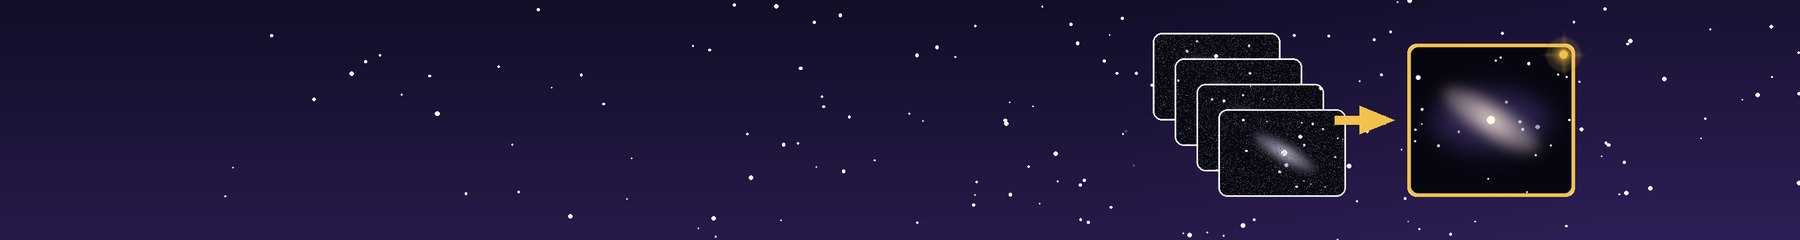
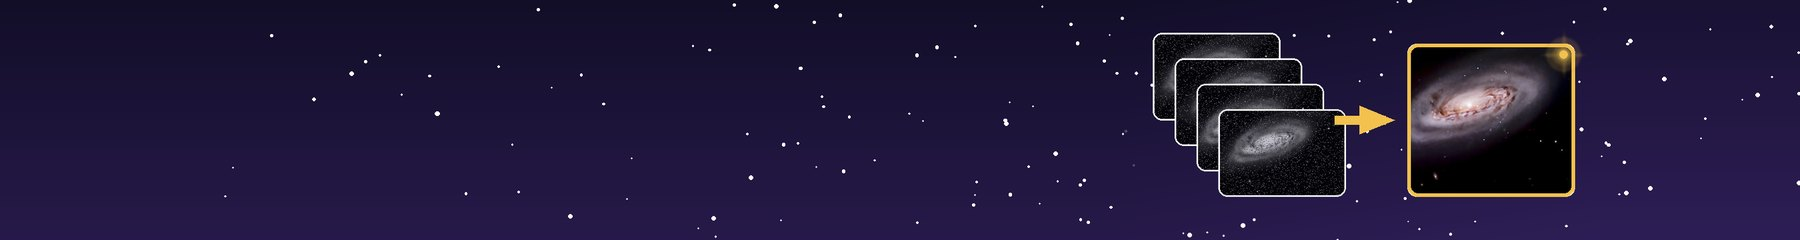
Dibujos de la aplicación con galaxias y nebulosas reales
Las galaxias, nebulosas y campos de estrellas de la cabecera y de los dibujos
de cada apartado ya no están dibujados: son recortes de astrofotos de Tomás
Moreno González (M 90, NGC 7000, NGC 2264, un cúmulo de Abell y el Tiburón),
que quedan en herramientas/fotos/ para volver a fabricar los dibujos. Las
tomas de una cámara monocroma salen en gris; el apilado, en color.

Claude-Session: https://claude.ai/code/session_01GSWUwFT7dmuTgvCXzgkGxE

diff --git a/herramientas/dibujos_lanzador.py b/herramientas/dibujos_lanzador.py
@@ -1,13 +1,17 @@
 """Dibujos de la ventana de inicio de ASTRO (lanzador).
 
 Genera en ../imagenes/ la cabecera y una ilustración por cada apartado. Se dibujan a 3× y se reducen,
+para que salgan suaves. Las galaxias, nebulosas y campos de estrellas no se dibujan: son recortes de
+astrofotos reales de Tomás Moreno González (M 90, NGC 7000, NGC 2264, un cúmulo de Abell y el Tiburón),
+que están en herramientas/fotos/. Lo demás (tarjetas, telescopios, flechas, la Luna) sí es dibujo.
+Se dibujan a 3× y se reducen,
 para que salgan suaves. En ../imagenes/web/ deja las versiones para la aplicación web (a 2×, en JPG): la
 cabecera, cada dibujo suelto y una banda ancha por apartado para la cabecera de sus ventanas. Hace falta Pillow solo para fabricarlos (la aplicación usa los PNG ya hechos):
 
     python3 herramientas/dibujos_lanzador.py
 """
 import math, os, random
-from PIL import Image, ImageDraw, ImageFilter
+from PIL import Image, ImageChops, ImageDraw, ImageEnhance, ImageFilter, ImageOps
 
 S = 3                                   # sobremuestreo
 AQUI = os.path.dirname(os.path.abspath(__file__))
@@ -72,14 +76,45 @@ def mancha(im, caja, color, desenfoque, alfa=255):
     im.alpha_composite(capa.filter(ImageFilter.GaussianBlur(desenfoque)))
 
 
-def galaxia(im, cx, cy, rx, ry, angulo=-25, color=(235, 225, 255)):
-    capa = Image.new("RGBA", im.size, (0, 0, 0, 0))
-    d = ImageDraw.Draw(capa)
-    for k, a in ((1.0, 70), (0.7, 110), (0.42, 170), (0.2, 240)):
-        d.ellipse([cx - rx * k, cy - ry * k, cx + rx * k, cy + ry * k], fill=color + (a,))
-    capa = capa.rotate(angulo, center=(cx, cy), resample=Image.BICUBIC).filter(ImageFilter.GaussianBlur(rx * 0.12))
-    im.alpha_composite(capa)
-    ImageDraw.Draw(im).ellipse([cx - rx * 0.07, cy - rx * 0.07, cx + rx * 0.07, cy + rx * 0.07], fill=(255, 250, 235, 255))
+FOTOS = os.path.join(AQUI, "fotos")      # recortes de astrofotos reales de Tomás Moreno González
+FOTO_OBJETO = {"galaxia": "galaxia-m90.jpg", "nebulosa": "nebulosa-ngc7000.jpg", "cumulo": "cumulo-abell.jpg",
+               "ninguno": "campo-tiburon.jpg"}
+_FOTOS = {}
+
+
+def foto(nombre):
+    if nombre not in _FOTOS:
+        _FOTOS[nombre] = Image.open(os.path.join(FOTOS, nombre)).convert("RGB")
+    return _FOTOS[nombre]
+
+
+def recorte(nombre, w, h, cx=0.5, cy=0.5, zoom=1.0):
+    """La foto recortada con la proporción w:h alrededor de (cx, cy) y reducida a w × h; con zoom > 1 se acerca."""
+    im = foto(nombre)
+    W, H = im.size
+    cw = W / zoom
+    ch = cw * h / w
+    if ch > H / zoom:
+        ch = H / zoom
+        cw = ch * w / h
+    x0 = min(max(cx * W - cw / 2, 0), W - cw)
+    y0 = min(max(cy * H - ch / 2, 0), H - ch)
+    return im.crop((int(x0), int(y0), int(x0 + cw), int(y0 + ch))).resize((int(w), int(h)), Image.LANCZOS)
+
+
+def foto_en_cielo(im, nombre, caja, zoom=1.0, cx=0.5, cy=0.5, fuerza=1.0):
+    """Funde una foto real con el cielo dibujado, en modo trama (el negro de la foto no tapa el degradado) y con los
+    bordes difuminados, para que el objeto parezca estar en ese cielo."""
+    x0, y0, x1, y1 = [int(v) for v in caja]
+    w, h = x1 - x0, y1 - y0
+    f = recorte(nombre, w, h, cx, cy, zoom)
+    if fuerza != 1.0:
+        f = ImageEnhance.Brightness(f).enhance(fuerza)
+    mezcla = ImageChops.screen(im.crop((x0, y0, x1, y1)).convert("RGB"), f).convert("RGBA")
+    r = min(w, h) * 0.1                     # el difuminado no llega al borde del recorte: no se nota ningún rectángulo
+    m = Image.new("L", (w, h), 0)
+    ImageDraw.Draw(m).ellipse([2.2 * r, 2.2 * r, w - 2.2 * r, h - 2.2 * r], fill=255)
+    im.paste(mezcla, (x0, y0), m.filter(ImageFilter.GaussianBlur(r)))
 
 
 def redondear(im, radio):
@@ -210,24 +245,17 @@ def flecha(im, puntos, color, grosor):
     d.polygon([(x1 + math.cos(ang) * grosor, y1 + math.sin(ang) * grosor), p1, p2], fill=color)
 
 
-def toma(im, x, y, w, h, semilla, objeto="galaxia", ruido=0.0, traza=False):
-    """Una toma en miniatura: cielo oscuro, estrellas y el objeto."""
+def toma(im, x, y, w, h, semilla, objeto="galaxia", ruido=0.0, traza=False, mono=False):
+    """Una toma en miniatura: un recorte de una astrofoto real, en gris si es de una cámara monocroma."""
     marco(im, x, y, w, h, relleno=(8, 8, 18))
-    sub = Image.new("RGBA", (int(w), int(h)), (8, 8, 18, 255))
-    estrellas(sub, int(w * h / (260 * S * S)) + 5, semilla, brillo=0.9, tam=0.7)
-    if objeto == "galaxia":
-        galaxia(sub, w * 0.52, h * 0.5, w * 0.3, h * 0.13, -30)
-    elif objeto == "nebulosa":
-        mancha(sub, [w * 0.2, h * 0.2, w * 0.8, h * 0.85], (220, 70, 110), w * 0.1, 200)
-        mancha(sub, [w * 0.35, h * 0.3, w * 0.7, h * 0.7], (90, 170, 220), w * 0.08, 140)
-    elif objeto == "cumulo":
-        rnd = random.Random(semilla + 7)
-        dd = ImageDraw.Draw(sub)
-        for _ in range(40):
-            a, r = rnd.uniform(0, 6.28), abs(rnd.gauss(0, w * 0.13))
-            px, py = w / 2 + r * math.cos(a), h / 2 + r * math.sin(a)
-            rr = rnd.choice([0.8, 1, 1.4]) * S
-            dd.ellipse([px - rr, py - rr, px + rr, py + rr], fill=(255, 245, 220, 255))
+    rnd = random.Random(semilla)
+    sub = recorte(FOTO_OBJETO.get(objeto, FOTO_OBJETO["ninguno"]), w, h, 0.5 + rnd.uniform(-0.05, 0.05),
+                  0.5 + rnd.uniform(-0.05, 0.05), 1.0 + rnd.uniform(0.0, 0.12))
+    if mono:
+        sub = ImageOps.colorize(ImageOps.autocontrast(ImageOps.grayscale(sub), cutoff=0.5), (4, 4, 10), (236, 234, 246))
+    if ruido:
+        sub = ImageEnhance.Brightness(sub).enhance(0.8)
+    sub = sub.convert("RGBA")
     if ruido:
         rnd = random.Random(semilla + 3)
         dd = ImageDraw.Draw(sub)
@@ -261,7 +289,7 @@ def cabecera():
     estrellas(im, 160, 12, zona=(0.45 * w * S, 0, w * S, h * S), brillo=0.5, tam=0.7)
     for x, y, r in ((0.62, 0.22, 2.2), (0.78, 0.62, 1.6), (0.9, 0.18, 2.6), (0.55, 0.75, 1.3), (0.97, 0.45, 1.5)):
         brillo_estrella(im, x * w * S, y * h * S, r * S)
-    galaxia(im, 0.84 * w * S, 0.4 * h * S, 70 * S, 20 * S, -28)
+    foto_en_cielo(im, "galaxia-m90.jpg", (0.84 * w * S - 96 * S, 0.4 * h * S - 50 * S, 0.84 * w * S + 96 * S, 0.4 * h * S + 50 * S), zoom=1.25)
     # colinas y un telescopio en silueta
     d = ImageDraw.Draw(im)
     pts = [(0, h * S)] + [(x * S, (h - 26 - 12 * math.sin(x / 60) - 8 * math.sin(x / 23)) * S) for x in range(0, w + 1, 10)] + [(w * S, h * S)]
@@ -366,7 +394,7 @@ def d_directo():
     d.ellipse([117 * S, 31 * S, 127 * S, 41 * S], fill=ROJO + (255,))
     # tomas que van llegando
     for i in range(3):
-        toma(im, (160 + i * 8) * S, (18 + i * 32) * S, 70 * S, 40 * S, 40 + i, ["galaxia", "galaxia", "galaxia"][i], traza=(i == 1))
+        toma(im, (160 + i * 8) * S, (18 + i * 32) * S, 70 * S, 40 * S, 40 + i, "galaxia", traza=(i == 1), mono=True)
     check(im, 238 * S, 22 * S, 7 * S, VERDE)
     cruz(im, 246 * S, 54 * S, 7 * S, ROJO)
     check(im, 254 * S, 86 * S, 7 * S, VERDE)
@@ -377,15 +405,12 @@ def d_apilar():
     w, h = TARJ
     im = fondo_tarjeta(5)
     for i in range(4):
-        toma(im, (18 + i * 12) * S, (18 + i * 14) * S, 70 * S, 48 * S, 50 + i, "galaxia", ruido=0.9)
+        toma(im, (18 + i * 12) * S, (18 + i * 14) * S, 70 * S, 48 * S, 50 + i, "galaxia", ruido=0.9, mono=True)
     flecha(im, [(118 * S, 66 * S), (146 * S, 66 * S)], ORO + (255,), 5 * S)
     # imagen final, limpia y más brillante
     x, y, fw, fh = 158 * S, 24 * S, 92 * S, 84 * S
     marco(im, x, y, fw, fh, relleno=(6, 6, 16))
-    sub = Image.new("RGBA", (fw, fh), (6, 6, 16, 255))
-    estrellas(sub, 22, 60, brillo=1.0, tam=0.8)
-    mancha(sub, [fw * 0.1, fh * 0.25, fw * 0.9, fh * 0.75], (120, 90, 200), fw * 0.08, 90)
-    galaxia(sub, fw * 0.5, fh * 0.5, fw * 0.36, fh * 0.14, -32, (255, 236, 215))
+    sub = recorte("galaxia-m90.jpg", fw, fh, 0.5, 0.5, 1.1).convert("RGBA")
     m = Image.new("L", sub.size, 0)
     ImageDraw.Draw(m).rounded_rectangle([0, 0, fw - 1, fh - 1], radius=6 * S, fill=255)
     im.paste(sub, (x, y), m)
@@ -455,9 +480,7 @@ def d_varios():
     AZUL, MORADO, AMBAR = (59, 130, 196), VIOLETA2, (217, 154, 30)
     # la nebulosa y los campos de cada equipo, el más pequeño en dorado
     cx, cy = 186 * S, 58 * S
-    mancha(im, [cx - 46 * S, cy - 30 * S, cx + 46 * S, cy + 30 * S], (220, 70, 120), 10 * S, 150)
-    mancha(im, [cx - 28 * S, cy - 18 * S, cx + 26 * S, cy + 20 * S], (90, 170, 230), 8 * S, 120)
-    estrellas(im, 14, 81, zona=(cx - 60 * S, cy - 40 * S, cx + 60 * S, cy + 40 * S), brillo=1.0, tam=0.9)
+    foto_en_cielo(im, "nebulosa-ngc7000.jpg", (cx - 74 * S, cy - 54 * S, cx + 74 * S, cy + 54 * S), zoom=1.1)
     d = ImageDraw.Draw(im)
     def discontinuo(x0, y0, x1, y1, color, paso=6):
         for (a, b) in (((x0, y0), (x1, y0)), ((x1, y0), (x1, y1)), ((x1, y1), (x0, y1)), ((x0, y1), (x0, y0))):
@@ -579,9 +602,8 @@ def d_quefotografio():
     im = degradado(w, h, (14, 12, 38), (52, 34, 98))
     estrellas(im, 70, 12, brillo=0.85, tam=0.85)
     cx, cy = 150 * S, 60 * S
-    mancha(im, [cx - 50 * S, cy - 26 * S, cx + 50 * S, cy + 30 * S], (220, 70, 120), 11 * S, 150)
-    mancha(im, [cx - 24 * S, cy - 14 * S, cx + 30 * S, cy + 16 * S], (90, 170, 230), 8 * S, 120)
-    galaxia(im, 226 * S, 26 * S, 16 * S, 6 * S, -35)
+    foto_en_cielo(im, "nebulosa-ngc2264.jpg", (cx - 68 * S, cy - 48 * S, cx + 68 * S, cy + 50 * S), zoom=1.1)
+    foto_en_cielo(im, "galaxia-m90.jpg", (226 * S - 26 * S, 26 * S - 15 * S, 226 * S + 26 * S, 26 * S + 15 * S), zoom=1.3)
     d = ImageDraw.Draw(im)
     # campo de la cámara: esquinas marcadas y la cruz del centro
     x0, y0, x1, y1 = cx - 44 * S, cy - 30 * S, cx + 44 * S, cy + 30 * S
